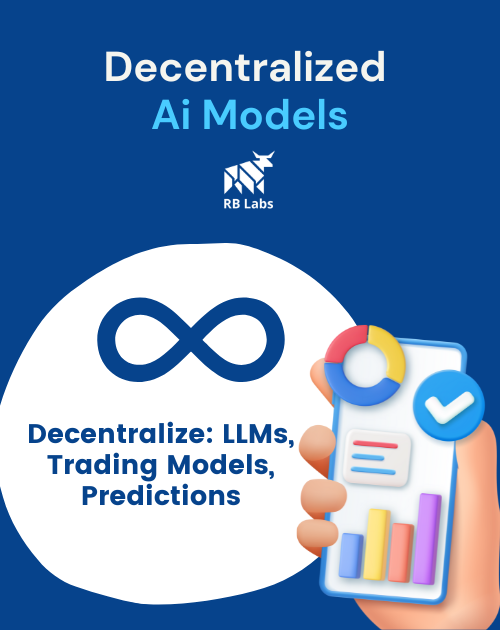
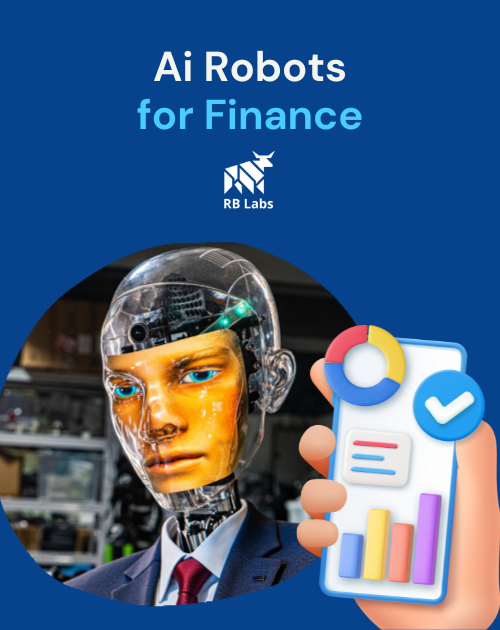
added the robert images and description

diff --git a/index.html b/index.html
@@ -136,7 +136,7 @@
                             <div class="col-lg-7 col-12 order-2 order-lg-1">
                                 <div class="content pt_md--30 pt_sm--30">
                                     <h1 class="axil-display-1 wow slideFadeInUp" data-wow-duration="1s" data-wow-delay="500ms">Welcome to RB Labs</h1>
-                                    <p class="subtitle-3 wow slideFadeInUp" data-wow-duration="1s" data-wow-delay="800ms">We specialize in Blockchain and AI solutions, pushing the boundaries of what's possible with Large Language Models (LLMs), decentralized AI models on the ICP, a variety of automation systems, and scrapers.
+                                    <p class="subtitle-3 wow slideFadeInUp" data-wow-duration="1s" data-wow-delay="800ms">We specialize in AI solutions for Finance, pushing the boundaries of what's possible with Large Language Models (LLMs), decentralized AI models on the ICP, Robotics and a variety of automation systems.
                                     </p>
                                         <a class="axil-button btn-large btn-transparent wow slideFadeInUp" data-wow-duration="1s" data-wow-delay="1300ms" href="/contact/"><span
                                             class="button-text">Contact us</span><span class="button-icon"></span></a>
@@ -196,6 +196,32 @@
                         {"breakpoint":481, "settings": {"slidesToShow": 1}}
                     ]'>
                     
+                     <!-- Start Single Feature  -->
+                    <div class="row d-flex flex-wrap axil-featured row--0">
+                        <div class="col-lg-6 col-xl-6 col-md-12 col-12">
+                            <div class="thumbnail">
+                                
+                                <picture>
+                                    <source class="image w-100" src="assets/images/featured/robert.webp" type="image/webp">
+                                    <source class="image w-100" src="assets/images/featured/robert.jpg" type="image/jpeg">
+                                    <img class="image w-100" src="assets/images/featured/robert.jpg" alt="Sales Oriented Ad Creation">
+                                </picture>
+                                
+                            </div>
+                        </div>
+                        <div class="col-lg-6 col-xl-5 col-md-12 col-12 offset-xl-1 mt_md--40 mt_sm--40">
+                            <div class="inner">
+                                <div class="section-title text-left">
+                                    <span class="sub-title extra07-color wow">Our Newest Products</span>
+                                    <h2 class="title wow">Robert the Swiss Banker</h2>
+                                    <p class="subtitle-2 wow">Merging Finance and Robotics. With more than 4 years of experience in time series forecasting with transformers, LSTMs, XLSTMs, and the integration of AI and blockchain technology. RB Labs now integrates financial AI into robotics.</p>
+                                    <div class="axil-button-group">
+                                        <a class="axil-button btn-large btn-transparent" href="/appointment/">Contact us</a>
+                                    </div>
+                                </div>
+                            </div>
+                        </div>
+                    </div>
                     <!-- Start Single Feature  -->
                     <div class="row d-flex flex-wrap axil-featured row--0">
                         <div class="col-lg-6 col-xl-6 col-md-12 col-12">
